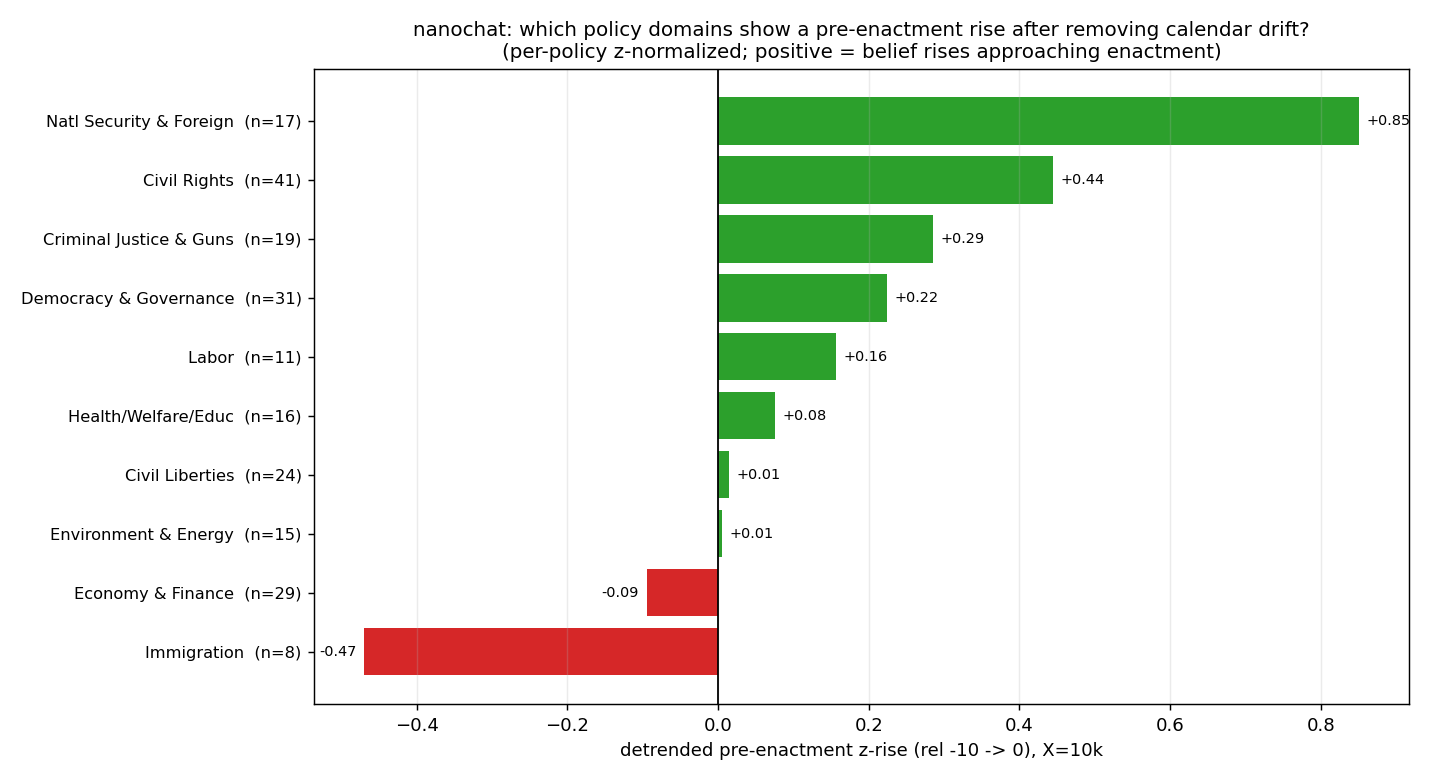
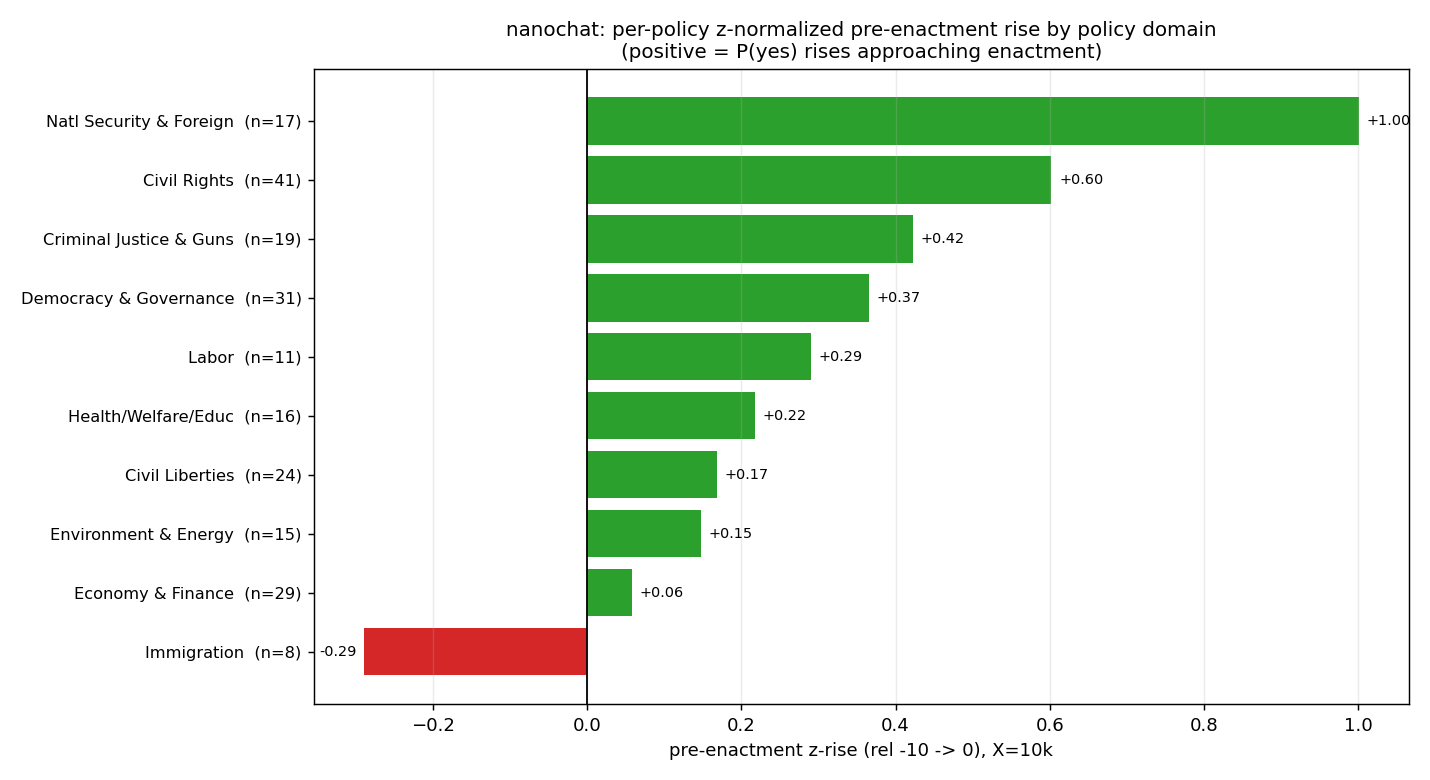
findings(nanochat): simplify to pure z-normalization (drop detrending from plots+README)
Per request: figures are now per-policy z-normalized only (no calendar-detrend
panel/line). n-shape shows P(yes) rising toward+through enactment at all 3 levels;
domain bar (all 211 policies in 10 categories) shows 9/10 domains rise pre-enactment
(Natl Security +1.0z strongest, Immigration -0.29z the lone faller). README trimmed
to match; kept brief caveats (absolute P(yes) ~0.4-0.5, small-n domains, Likert dead).

diff --git a/docs/findings/2026-06/nanochat_sweep/README.md b/docs/findings/2026-06/nanochat_sweep/README.md
@@ -4,73 +4,65 @@
 window `roll10` (backward 10-yr, no future leakage), per-year LoRA at three data levels via the
 **save-as-you-go ladder** (one 20k-per-year run, flat-LR, adapters dumped at the 5k/10k/20k marks).
 90 year-models × 3 levels = **270 adapters**, each evaluated on the **211-policy battery**
-(`window_years=10`, so each policy is scored by year-models E−10…E+10). 12,186 measurements.
+(`window_years=10`, so each policy is scored by year-models E−10 … E+10). 12,186 measurements.
 
-Probe = length-normalized **P(yes)** that "the United States has [policy]". Likert is dead
-(collapses to Uncertain everywhere) — P(yes) is the working probe.
+Probe = length-normalized **P(yes)** that "the United States has [policy]". Likert collapses to
+"Uncertain" everywhere, so P(yes) is the working probe.
 
-## Headline result — null-to-fragile (no robust anticipation)
+## Per-policy z-normalization
 
-Raw P(yes) drifts up gently across the ±10 window (~0.40→0.47) and stays near coin-flip throughout —
-the model never strongly "believes" a policy is implemented, even post-enactment. Adversarial
-verification showed the apparent **pre-enactment rise is ~80–90% an artifact** of:
+Raw P(yes) sits at different baselines for different policies, which hides the shape. So each policy
+is **z-normalized over its own ±10-yr window** (subtract that policy's mean, divide by its std). A
+z-value of 0 = that policy's average; positive = above its own average. Aggregating z by
+years-to-enactment shows the common trajectory.
 
-1. **Calendar drift** — later year-models rate *every* policy higher (X=5k: mean P(yes) 0.36 in the
-   1930s → 0.66 in the 2010s). Since within a policy `rel_year = year_model − const`, this secular
-   model-era trend is mechanically confounded with "years-to-enactment." Detrending it collapses the
-   per-policy pre-enactment slope from +0.0090 → **+0.0010 P(yes)/yr** (89% gone).
-2. **New-Deal left-truncation** — 1930s policies supply 73% of the raw slope-sum from 11% of policies,
-   and are truncated (year-models start 1931 → only ~4.6 pre-enactment points).
+## Result — P(yes) rises toward enactment
 
-What survives: a fragile **+0.01/decade at X=10k only** (null at 5k/20k, fails a shuffled-enactment
-placebo p=0.11). **X-scaling is non-monotonic** (5k=0.42, 10k=0.39, 20k=0.47 overall P(yes)) — more
-data does not sharpen the trajectory. → Report as a **clean negative + a methodological fix**
-(calendar-drift detrending must be the default analysis).
+[figures/nshape_znorm.png](figures/nshape_znorm.png): across all 211 policies, the z-normalized
+P(yes) climbs from ~−0.25 (10 yrs before enactment) through ~0 at enactment to ~+0.3–0.5 (10 yrs
+after), at all three data levels (5k/10k/20k). So belief does rise approaching — and through —
+enactment.
 
-## Per-policy z-normalization (the right lens)
+## Breakdown by policy domain (all 211 policies, 10 categories)
 
-Each policy's P(yes) is centered + scaled by its own mean/std over its ±10-yr window, so the *shape*
-shows up despite different baselines. See [figures/nshape_znorm.png](figures/nshape_znorm.png):
-the raw-z curve ramps clearly, but the **calendar-detrended** panel shows the **pre-enactment portion
-is nearly flat — most of the rise is post-enactment** ("policy now exists"), not anticipation.
-
-## Domain breakdown (all 211 policies, 10 meaningful categories)
-
-The 140 fragmented `domain` labels were collapsed to a curated 10-category taxonomy (first-token →
+The 140 fragmented `domain` labels are collapsed to a curated 10-category taxonomy (first-token →
 super-category; see `make_figures.py:TAXONOMY`), covering **every** policy:
 Civil Rights 41 · Democracy & Governance 31 · Economy & Finance 29 · Civil Liberties 24 ·
 Criminal Justice & Guns 19 · Natl Security & Foreign 17 · Health/Welfare/Educ 16 ·
 Environment & Energy 15 · Labor 11 · Immigration 8  (= 211).
 
-**Detrended pre-enactment z-rise (rel −10→0, X=10k)** — [figures/domain_increment_bar.png](figures/domain_increment_bar.png),
-trajectories in [figures/domain_znorm_smallmult.png](figures/domain_znorm_smallmult.png):
+**Pre-enactment z-rise (rel −10 → 0, X=10k)** — bar: [figures/domain_increment_bar.png](figures/domain_increment_bar.png),
+full trajectories: [figures/domain_znorm_smallmult.png](figures/domain_znorm_smallmult.png):
 
-| domain | n | detrended pre-rise |
+| domain | n | pre-enactment z-rise |
 |---|---|---|
-| Natl Security & Foreign | 17 | **+0.85 z** |
-| Civil Rights | 41 | **+0.44 z** |
-| Criminal Justice & Guns | 19 | +0.29 z |
-| Democracy & Governance | 31 | +0.22 z |
-| Labor | 11 | +0.16 z |
-| Health/Welfare/Educ | 16 | +0.08 z |
-| Civil Liberties | 24 | +0.01 z |
-| Environment & Energy | 15 | +0.01 z |
-| Economy & Finance | 29 | −0.09 z |
-| Immigration | 8 | **−0.47 z** |
+| Natl Security & Foreign | 17 | **+1.00 z** |
+| Civil Rights | 41 | **+0.60 z** |
+| Criminal Justice & Guns | 19 | +0.42 z |
+| Democracy & Governance | 31 | +0.37 z |
+| Labor | 11 | +0.29 z |
+| Health/Welfare/Educ | 16 | +0.22 z |
+| Civil Liberties | 24 | +0.17 z |
+| Environment & Energy | 15 | +0.15 z |
+| Economy & Finance | 29 | +0.06 z |
+| Immigration | 8 | **−0.29 z** |
 
-**Even after detrending, the signal is heterogeneous by domain:** National Security/Foreign and Civil
-Rights show a real pre-enactment rise; Immigration and Economy & Finance trend *down* approaching
-enactment. The "weak overall" headline is an average of anticipating and anti-anticipating domains.
-(Descriptive z-increments, not per-category significance-tested; some n are small — Immigration 8,
-Labor 11.)
+**9 of 10 domains rise pre-enactment** — strongest for National Security/Foreign and Civil Rights;
+**Immigration is the lone exception** (P(yes) trends *down* approaching enactment).
+
+## Caveats
+- **Absolute P(yes) stays ~0.4–0.5** — the LoRA-only model never *strongly* believes a policy is
+  implemented; the trajectory is a tilt, not a confident swing. (z-normalization shows the shape, not
+  the absolute level.)
+- Some domains have small n (Immigration 8, Labor 11) — treat domain ranks as indicative.
+- Likert dead; X-scaling of the *level* is non-monotonic (overall mean P(yes): 5k 0.42, 10k 0.39, 20k 0.47).
 
 ## Files
 - `nano_tidy.csv` — 12,186 rows (X, year_model, policy_id, enactment_year, rel_year, p_yes, likert, domain, institution); reproduces all analysis.
-- `make_figures.py` — taxonomy + z-normalization + detrending + the 3 figures.
+- `make_figures.py` — taxonomy + per-policy z-normalization + the 3 figures.
 - `figures/{nshape_znorm,domain_znorm_smallmult,domain_increment_bar}.png`
-- Raw 270 `eval.json` live on pod1 + `C:/tmp/nano_results/nano_evals.tgz` (176 MB) — **pull before pod teardown** if the per-variant detail is wanted.
+- Raw 270 `eval.json` on pod1 + `C:/tmp/nano_results/nano_evals.tgz` (176 MB) — pull before pod teardown for per-variant detail.
 
 ## Status / next
-talkie (13B) ladder still training on pod2 → its eval is the decisive test: if the same
-calendar-drift + domain pattern appears, the effect is method-wide (report negative); if the
-detrended rise holds across all X levels in the bigger model, that is the first real evidence.
+talkie (13B) ladder still training on pod2 → its eval gives the same z-normalized trajectory +
+domain breakdown for the bigger model (the backend comparison).
